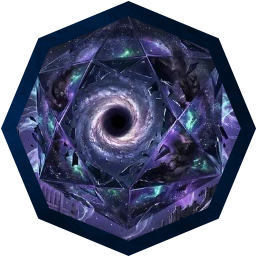
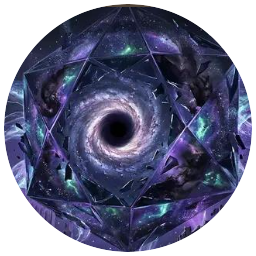
Elemental menor de oscuridad: nueva imagen para la fase 3

diff --git a/js/tablero-lienzo.js b/js/tablero-lienzo.js
@@ -194,7 +194,7 @@
       jefe_fase1: 1, jefe_fase2: 1, jefe_fase3: 1, forma_intangible: 1, forma_densa: 1, forma_extensa: 1, jefe_carga: 1, jefe_expuesto: 1 };
     // El remolino de la fase 3 del Elemental: su propia imagen, girando detrás de la ficha
     let animBarras = false;   // la ficha que se está dibujando lleva barras encima (los efectos del Elemental les dejan hueco)
-    const IMG_FASE3 = "assets/enemigos/elemental-oscuridad-fase3.png";
+    const IMG_FASE3 = "assets/enemigos/elemental-oscuridad-fase3.png?v=2";
     // Recorta un anillo alrededor de la ficha: lo de dentro (la ficha) queda limpio
     // y deja libre el hueco de las barras, encima de la ficha
     function anillo(c, x, y, r0, r1) {

diff --git a/tablero.html b/tablero.html
@@ -78,7 +78,7 @@
   <script src="js/tablero-marcas.js?v=20271248"></script>
   <script src="js/tablero-iconos.js?v=20271258"></script>
   <script src="js/tablero-luz.js?v=20271248"></script>
-  <script src="js/tablero-lienzo.js?v=20271258"></script>
+  <script src="js/tablero-lienzo.js?v=20271259"></script>
   <script src="js/tablero-fx.js?v=20271248"></script>
   <script src="js/tablero-ventanas.js?v=20271248"></script>
   <script src="js/tablero-paneles.js?v=20271258"></script>
